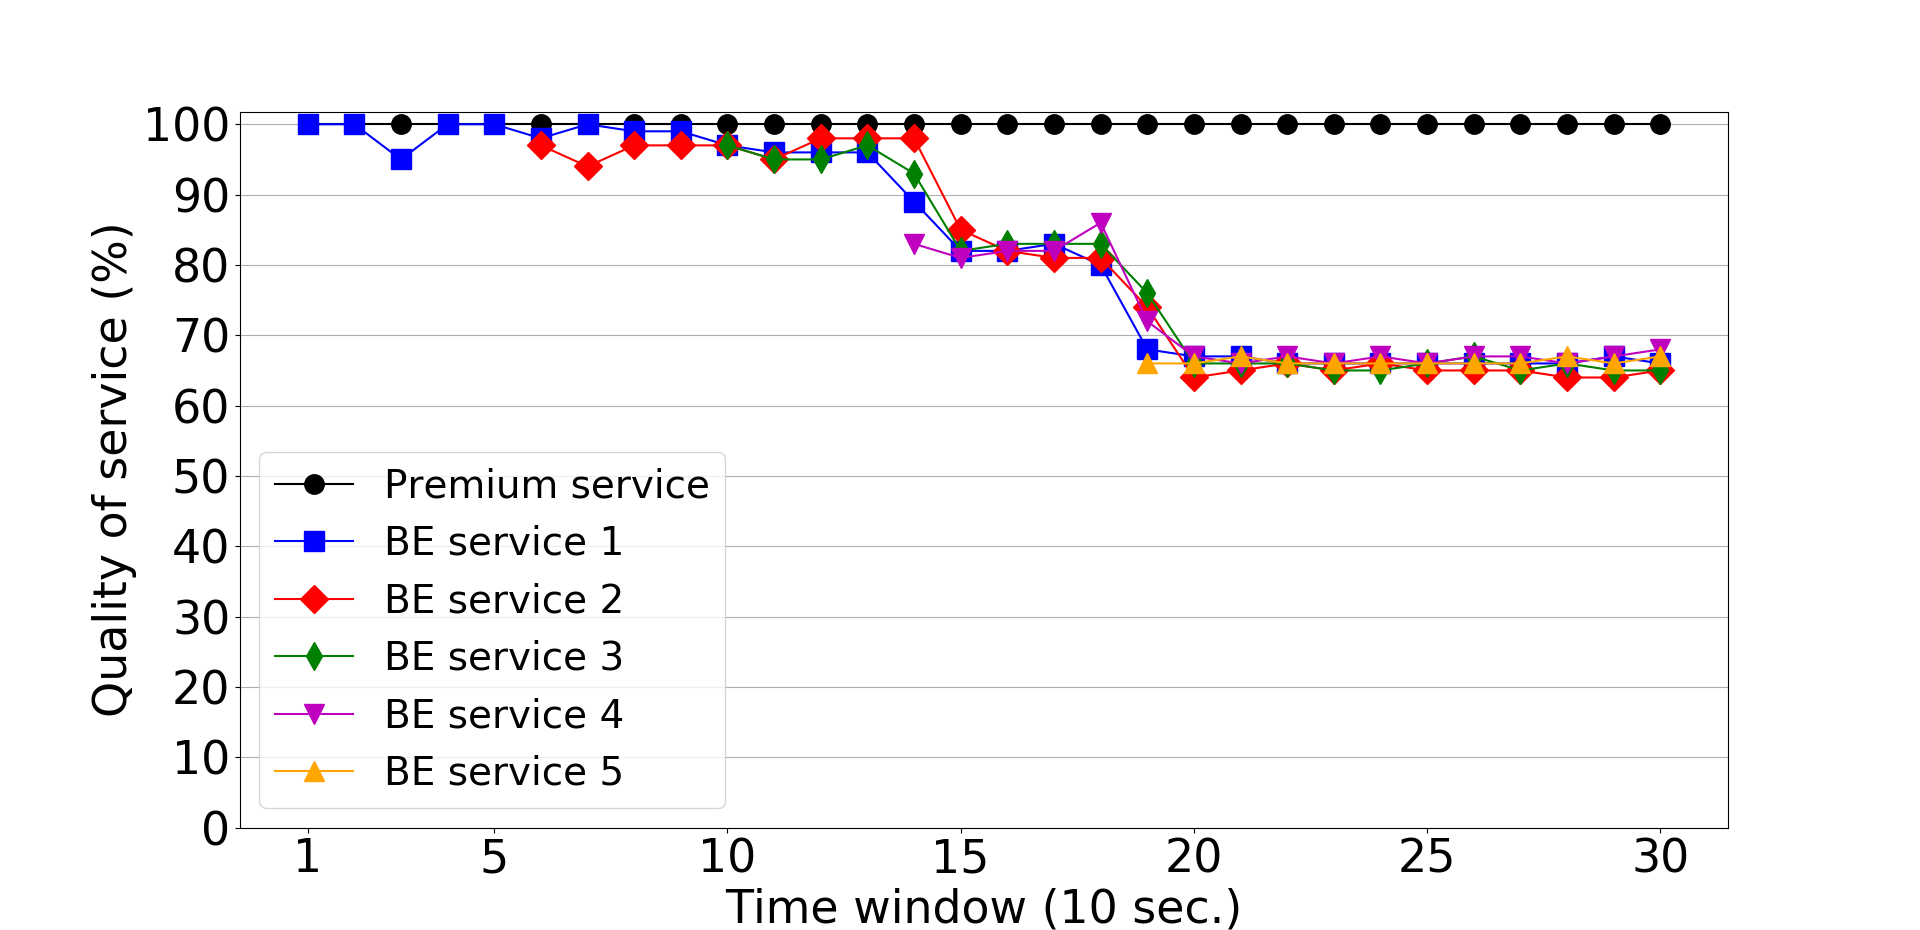
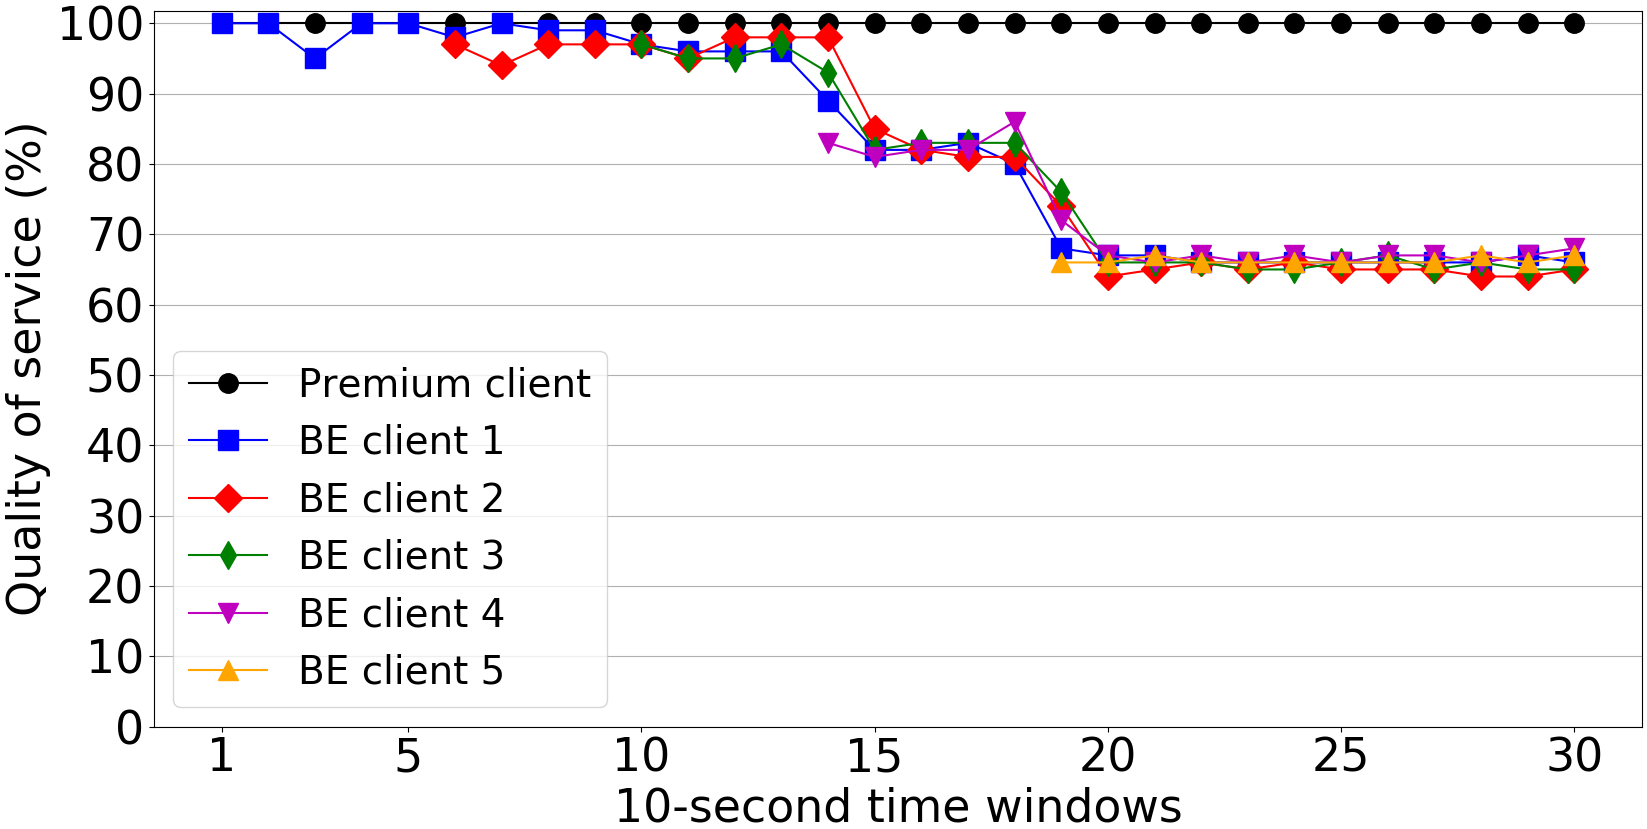
Updated System Monitor graph script and figure

diff --git a/Scripts/System_Monitor/graph.py b/Scripts/System_Monitor/graph.py
@@ -129,17 +129,17 @@ def main ():
 
 	fig, ax = plt.subplots()
 
-	ax.plot(x_Premium, y_Premium, color='black', marker='o', markerfacecolor='black', markersize = 14, label="Premium service")
-	ax.plot(x1_Trash, first_set, color='b', marker='s', markersize = 14, label="BE service 1")
-	ax.plot(x2_Trash, second_set, color='r', marker='D', markersize = 14, label="BE service 2")
-	ax.plot(x3_Trash, third_set, color='g', marker='d', markersize = 14, label="BE service 3")
-	ax.plot(x4_Trash, fourth_set, color='m', marker='v', markersize = 14, label="BE service 4")
-	ax.plot(x5_Trash, fifth_set, color='orange', marker='^', markersize = 14, label="BE service 5")
+	ax.plot(x_Premium, y_Premium, color='black', marker='o', markerfacecolor='black', markersize = 14, label="Premium client")
+	ax.plot(x1_Trash, first_set, color='b', marker='s', markersize = 14, label="BE client 1")
+	ax.plot(x2_Trash, second_set, color='r', marker='D', markersize = 14, label="BE client 2")
+	ax.plot(x3_Trash, third_set, color='g', marker='d', markersize = 14, label="BE client 3")
+	ax.plot(x4_Trash, fourth_set, color='m', marker='v', markersize = 14, label="BE client 4")
+	ax.plot(x5_Trash, fifth_set, color='orange', marker='^', markersize = 14, label="BE client 5")
 
 	y_axis = [0, 10, 20, 30, 40, 50, 60, 70, 80, 90, 100]
 	plt.xticks(x_axis)
 	plt.yticks(y_axis)
-	plt.xlabel('Time window (10 sec.)', fontsize = 33)
+	plt.xlabel('10-second time windows', fontsize = 33)
 	plt.ylabel('Quality of service (%)', fontsize = 33)
 	plt.tick_params(labelsize = 33)
 	plt.legend(fontsize = 28, loc='lower left')
